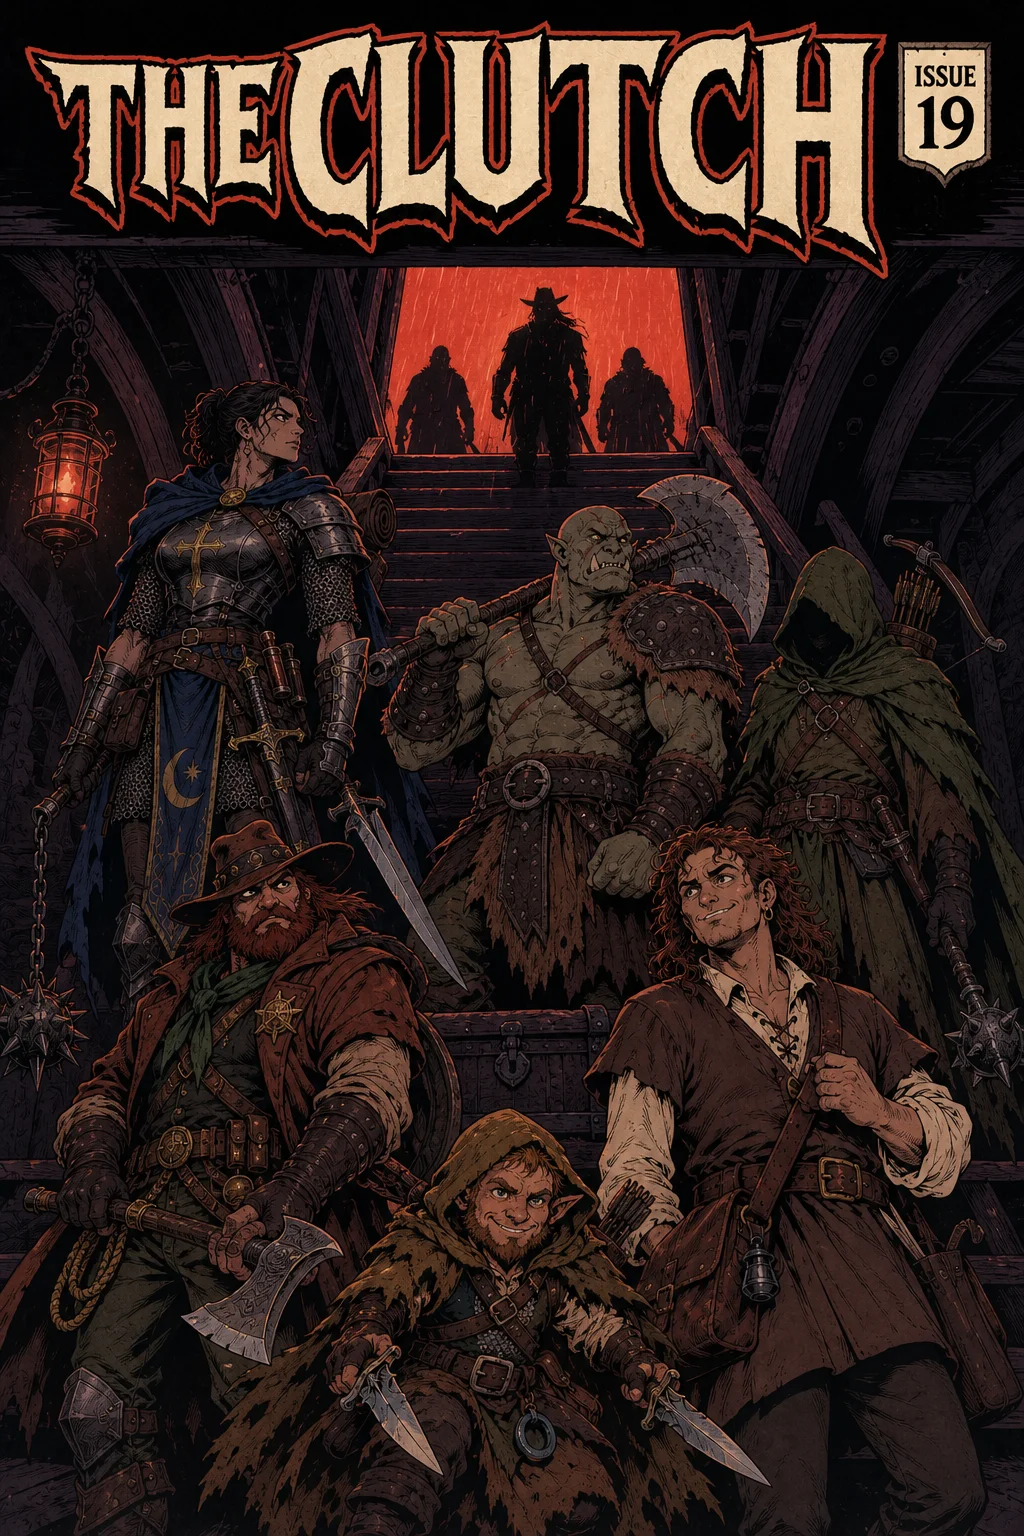
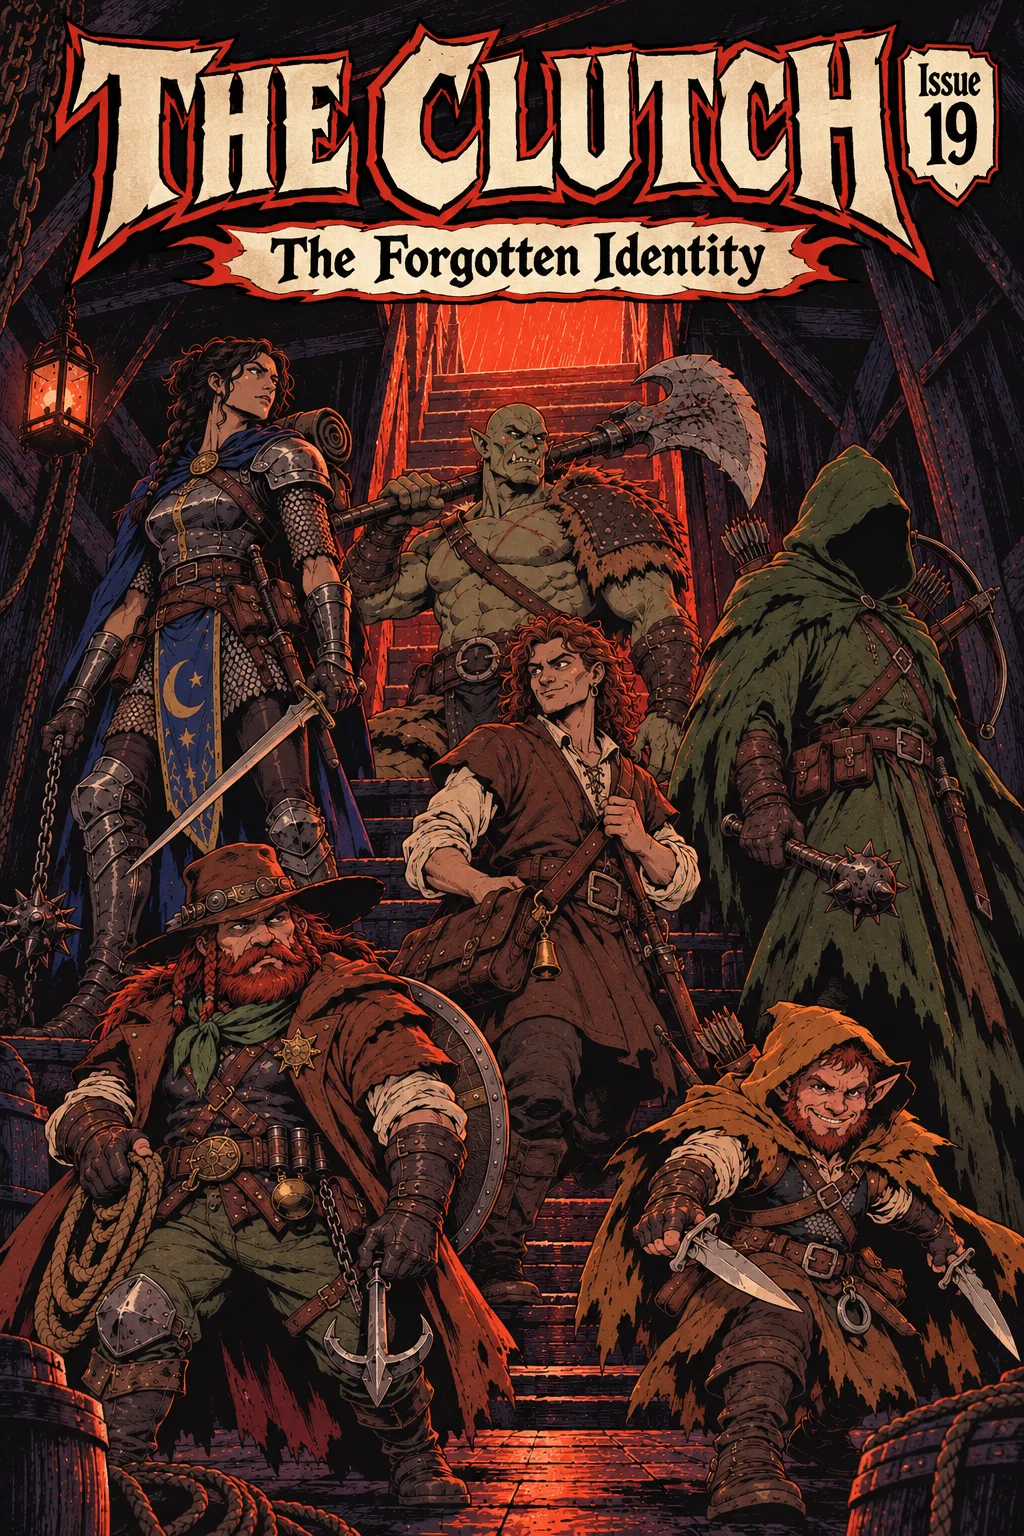
Release v2.5.0 - Issue 19 published

diff --git a/data/issues.js b/data/issues.js
@@ -82,7 +82,7 @@ window.CLUTCH_DATA = {
         {
           "id": 19,
           "number": 19,
-          "title": "The Forgotten Identity",
+          "title": "Issue 19",
           "folder": "journey-rod-of-seven-parts/issue-19"
         }
       ]

diff --git a/CHANGELOG.md b/CHANGELOG.md
@@ -5,6 +5,11 @@ All notable changes to this site are recorded here. Format loosely follows
 [Semantic Versioning](https://semver.org/) — MAJOR for big structural/hosting
 changes, MINOR for new features or content sections, PATCH for small fixes.
 
+## [2.5.0] - 2026-10-19
+
+### Added
+- Issue 19 ("Issue 19") published to the site, via Panel Studio's "Publish to site" button.
+
 ## [2.4.0] - 2026-10-18
 
 ### Added
